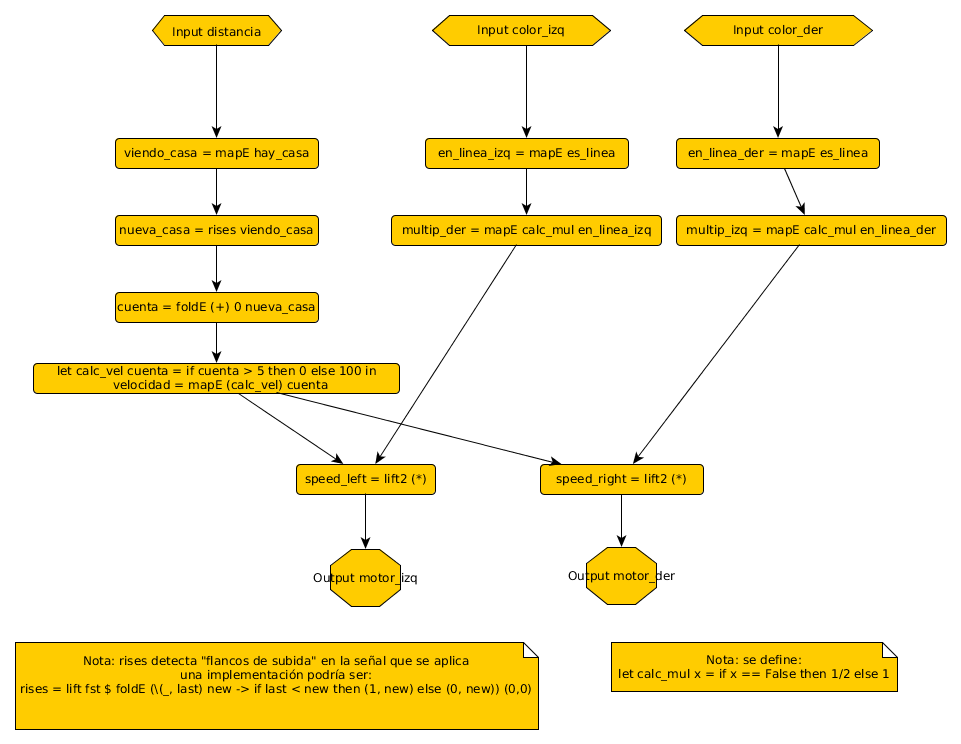
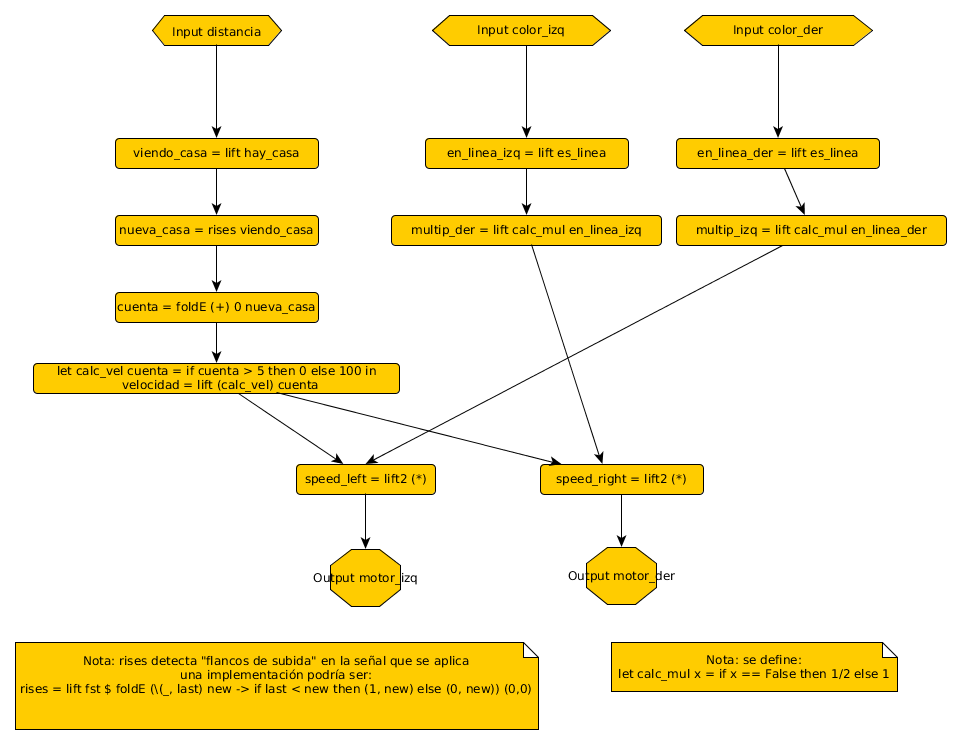
Extiendo la seccion diseño y actualizo el diagrama del caso de estudio

diff --git a/report/design/design.tex b/report/design/design.tex
@@ -5,6 +5,8 @@ así como el diseño del lenguaje de bajo nivel, y cómo es interpretado.
 
 \subsection{Sintaxis}
 
+
+
 \subsection{Semántica}
 
 
@@ -14,17 +16,18 @@ En el siguiente ejemplo se muestra como haría para detener un
 robot cuando su sensor de distancia muestra un valor menor a un mínimo.
 
 \begin{verbatim}
-MINIMO = 30
 INPUT_DISTANCE = 1
 OUTPUT_MOTOR = 1
 
-distanceToSpeed :: Number -> Number
-distanceToSpeed n =
-   if (n < MINIMO) 0 else 100
+MIN_DISTANCE = 30
+FULL_SPEED = 100
+STOP = 0
+
+distanceToSpeed n = if (n < MIN_DISTANCE) STOP else FULL_SPEED
 
 main :: IO()
-main = let distance = read(INPUT_DISTANCE) in
-   output OUTPUT_MOTOR (mapE (distanceToSpeed) distance)
+main = let distance = read INPUT_DISTANCE in
+   output OUTPUT_MOTOR (lift distanceToSpeed distance)
 
 \end{verbatim}
 
@@ -32,7 +35,7 @@ Primero se definió una fuente de eventos llamada \emph{distance},
 de tipo \emph{Event Number}.
 
 \begin{verbatim}
-let distance = read(INPUT_DISTANCE)
+let distance = read INPUT_DISTANCE
 \end{verbatim}
 
 La misma emitirá un evento con la distancia en \emph{cm} leída
@@ -48,7 +51,7 @@ de \emph{distance}, aplicandole la función \texttt{distanceToSpeed}
 a cada valor para obtener la velocidad.
 
 \begin{verbatim}
-(mapE (distanceToSpeed) distance)
+(lift distanceToSpeed distance)
 \end{verbatim}
 
   Ésta expresión, también es una fuente de eventos
@@ -60,7 +63,6 @@ y su segundo parámetro es una fuente de eventos,
 en éste caso son velocidades.
 
 
-
 \section{Lenguaje de bajo nivel}
 
  Para presentar el lenguaje, primero defino las estructuras
@@ -69,12 +71,6 @@ necesarias para explicar la semántica de cada instrucción.
 \begin{enumerate}
 
 \item \emph{Inputs}
-
-  
-  Es utilizado para almacenar todos los eventos de una aplicación.
-  Es una cola de eventos.
-
-  
 
   Los valores leídos en las entradas de hardware se mapean
 en esta lista. Por ejemplo si el hardware cuenta con un botón,
@@ -88,15 +84,24 @@ rutinas que deben invocarse cuando se tenga un
 valor disponible en la entrada. El mismo puede ser vacío si
 no hay rutinas esperando por su valor. Queda a criterio de quien
 implementa la máquina si éstos valores deben ser guardados o
-descartados. 
+descartados.
   A éste conjunto de rutinas lo denotamos cómo:
 
   $Callbacks_i$
 
-\item \emph{Events}
+\item \emph{Nodes}
 
+  Es utilizado para almacenar todas las transformaciones.
+  Cada aplicación de \texttt{lift} o \texttt{lift2} será mapeada en un nodo.
+  Cada nodo $Node_i$ tiene una lista de nodos adyacentes
+que dependen de él.
 
-\item Stack
+\item \emph{Outputs}
+
+  Mapea valores en salidas de hardware, los valores
+  son asignados con la operación \texttt{output}.
+
+\item \emph{Stack}
 
 Es una pila global, se utiliza para ejecutar operaciones,
 realizar cálculos, es único
@@ -106,10 +111,25 @@ persistentes en él.
 Usaremos el símbolo $TOS$ para referirnos al elemento en el tope
 de la pila y $Stack$ para referirnos a la pila.
 
-\item Ready
+\item \emph{Ready}
 
 Es una \emph{cola} que contiene punteros a hilos de ejecución
 listos para ser ejecutados.
+
+
+\item Dispatcher
+
+El dispatcher, es quien implementa las acciones de la máquina.
+El mismo se encarga de recibir valores de los sensores, mapearlos
+a eventos en las entradas $Input_i$.
+Éstos eventos, serán recibidos por los nodos $Nodes$, cada $Node_i$
+que espera por eventos, entrará en estado activo cuando todos los nodos
+por los que espera le envíen un evento.
+A su vez, el nodo en estado activo calcula un resultado y notifica a
+todos sus nodos adyacentes.
+
+Como $Nodes$ es un grafo acíclico, éste proceso termina, y cada
+salida cuenta con un valor, que será mapeado a los actuadores.
 
 \end{enumerate}
 
